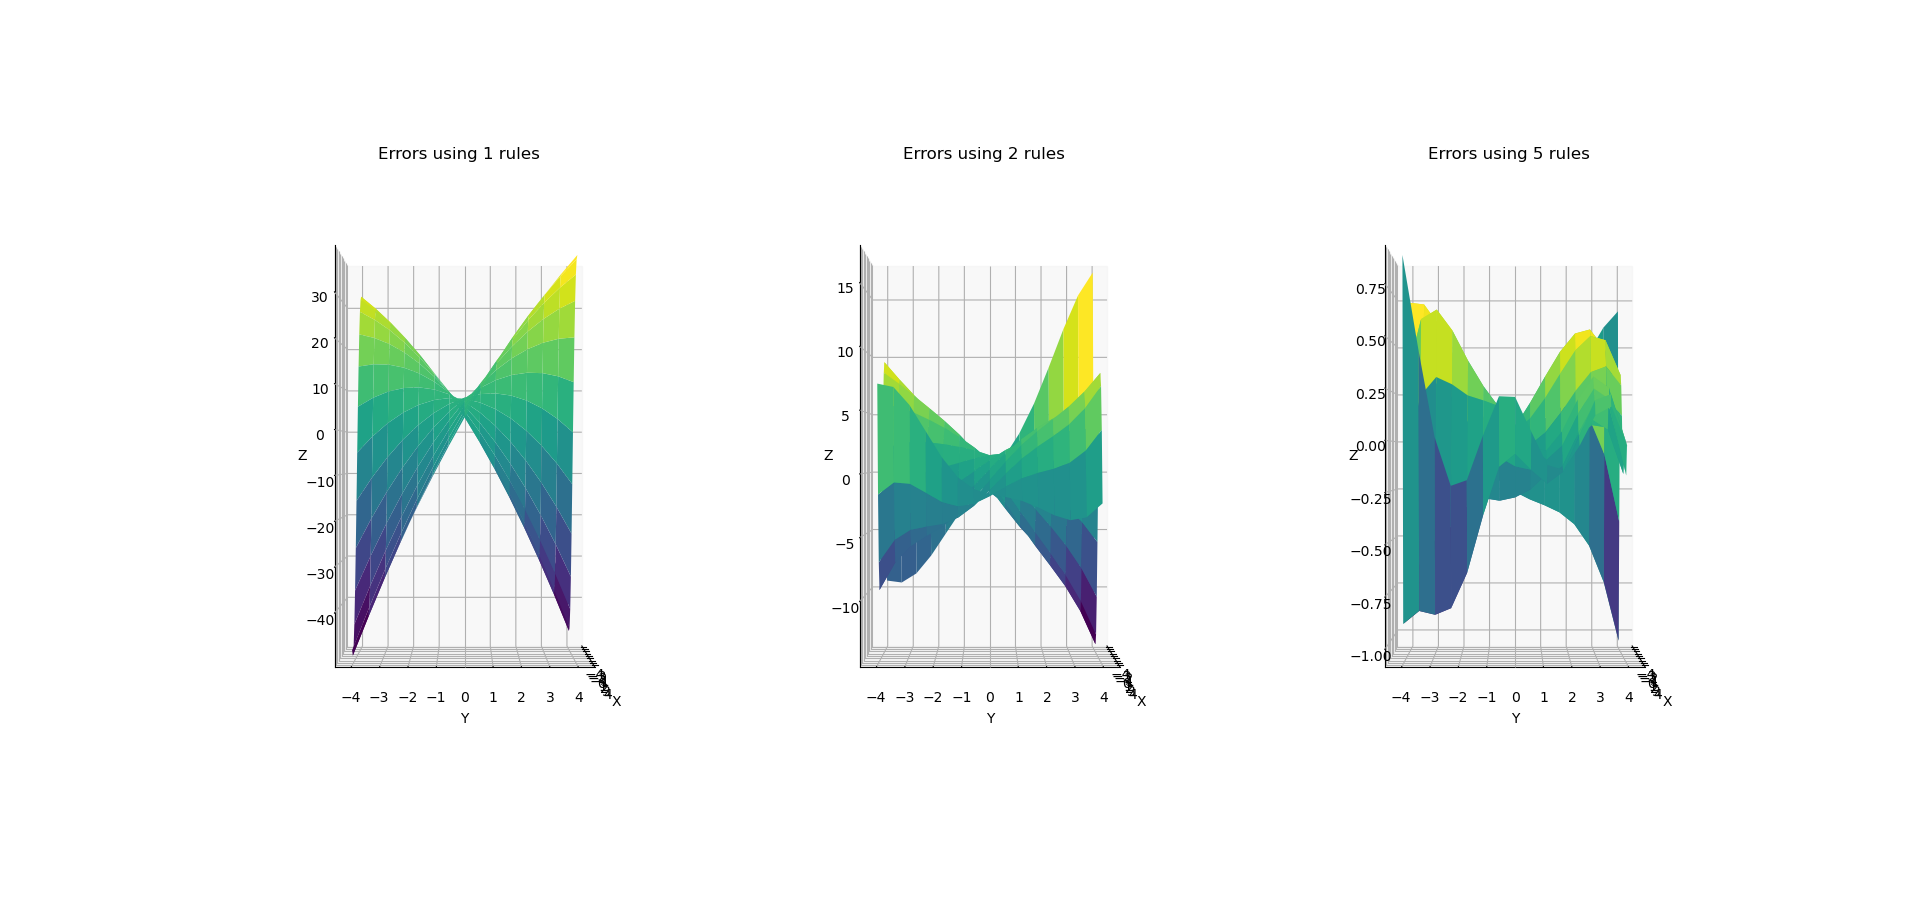
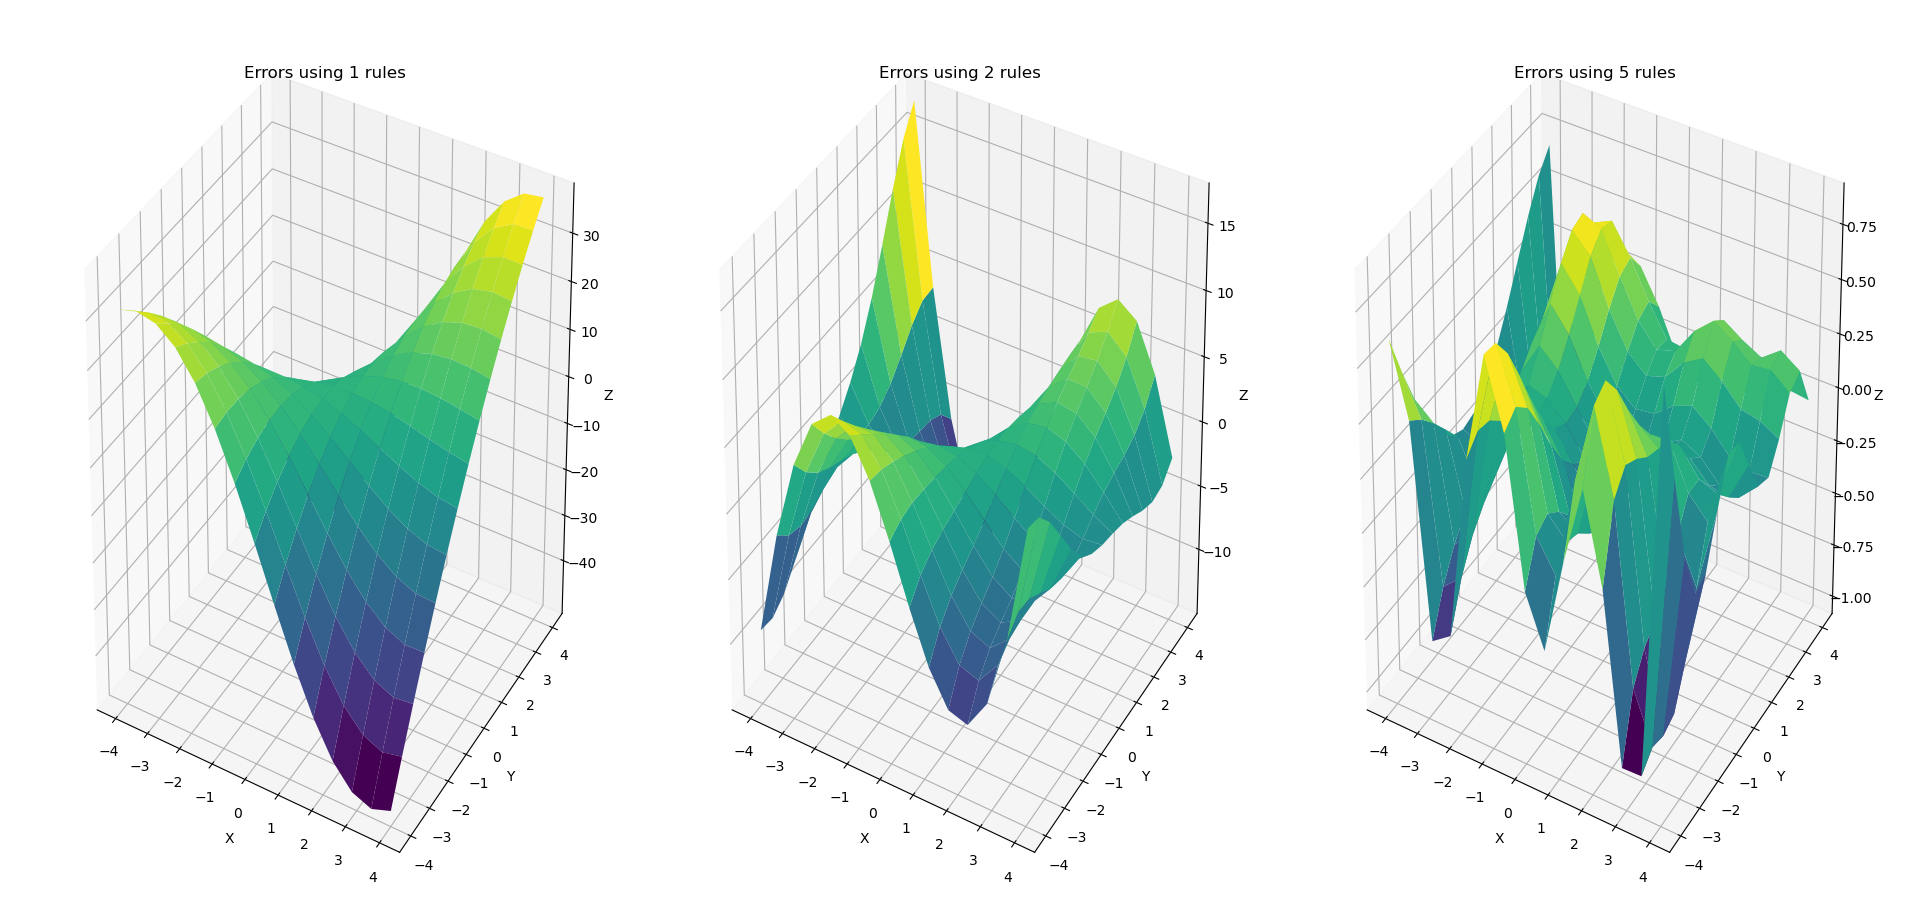
Finalized code

diff --git a/ANFIS/fuzzy_net.py b/ANFIS/fuzzy_net.py
@@ -251,8 +251,8 @@ def draw_error_curves(funcs, no_rules, save_img=None):
         ax[i].set_xlabel('X')
         ax[i].set_ylabel('Y')
         ax[i].set_zlabel('Z')
-        ax[i].view_init(elev=0., azim=0)
     plt.show()
+    fig.tight_layout()
     if save_img is not None:
         fig.savefig(save_img)
 
@@ -308,7 +308,41 @@ def draw_losses(gradient, stohastic, save_img=None):
     ax[1].plot(range(len(stohastic)), stohastic)
 
     plt.show()
+    fig.tight_layout()
 
+    if save_img is not None:
+        fig.savefig(save_img)
+
+
+def draw_losses_with_lrs(history_gradient, history_stohastic, save_img=None):
+    lrs = [[1e-4, 5e-6], [5e-3, 1e-4], [3e-2, 5e-3]]
+    labels = ['Low learning rate, learning_rate={}, fuzzification_learning_rate={}',
+              'Optimal learning rate, learning_rate={}, fuzzification_learning_rate={}',
+              'High learning rate, learning_rate={}, fuzzification_learning_rate={}']
+
+    fig, ax = plt.subplots(3, 2)
+    fig.set_size_inches(18, 15)
+
+    for i, histories in enumerate(zip(history_gradient, history_stohastic)):
+        grad, stoh = histories
+        ax[i][0].set_title('Gradient algorithm, {}'.format(
+            labels[i].format(*lrs[i])))
+        ax[i][0].plot(range(len(grad)), grad)
+        if i != 2:
+            ax[i][0].set_ylim(0, 10)
+        else:
+            ax[i][0].set_ylim(0, 10000)
+        ax[i][0].set_ylabel('Errors')
+
+        ax[i][1].set_title('Stohastic algorithm, {}'.format(
+            labels[i].format(*lrs[i])))
+        ax[i][1].plot(range(len(stoh)), stoh)
+        ax[i][1].set_ylim(0, 10)
+        ax[i][1].set_ylabel('Errors')
+
+    fig.tight_layout()
+    fig.subplots_adjust(hspace=0.243, wspace=0.077)
+    plt.show()
     if save_img is not None:
         fig.savefig(save_img)
 
@@ -359,22 +393,22 @@ if __name__ == "__main__":
 
     # anfis5.save_model('model5_gradient_high_lr.npz')
 
-    """anfis5 = ANFIS(no_rules=5)
-    history_stohastic = anfis5.train(X_Y, z, algorithm='stohastic', n_epochs=10000, learning_rate=1e-4, learning_rate_fuzzification=5e-6,
-                                     lr_decay=0.8, decay_interval=2500, shuffle=False)
+    # anfis5 = ANFIS(no_rules=5)
+    # history_stohastic = anfis5.train(X_Y, z, algorithm='stohastic', n_epochs=10000, learning_rate=1e-4, learning_rate_fuzzification=5e-6,
+    #                                  lr_decay=0.8, decay_interval=2500, shuffle=False)
 
-    np.save('history_stohastic_low_lr.npy', history_stohastic)
+    # np.save('history_stohastic_low_lr.npy', history_stohastic)
 
-    anfis5.save_model('model5_stohastic_low_lr.npz')
+    # anfis5.save_model('model5_stohastic_low_lr.npz')
 
-    anfis5 = ANFIS(no_rules=5)
-    history_gradient = anfis5.train(X_Y, z, n_epochs=10000, learning_rate=1e-4, learning_rate_fuzzification=5e-6,
-                                    lr_decay=0.8, decay_interval=2500, shuffle=False)
+    # anfis5 = ANFIS(no_rules=5)
+    # history_gradient = anfis5.train(X_Y, z, n_epochs=10000, learning_rate=1e-4, learning_rate_fuzzification=5e-6,
+    #                                 lr_decay=0.8, decay_interval=2500, shuffle=False)
 
-    np.save('history_gradient_low_lr.npy', history_gradient)
+    # np.save('history_gradient_low_lr.npy', history_gradient)
 
-    anfis5.save_model('model5_gradient_low_lr.npz')
-"""
+    # anfis5.save_model('model5_gradient_low_lr.npz')
+
     anfis5 = ANFIS.load_model('model5_stohastic.npz')
 
     draw_func([func, anfis1.predict, anfis2.predict,
